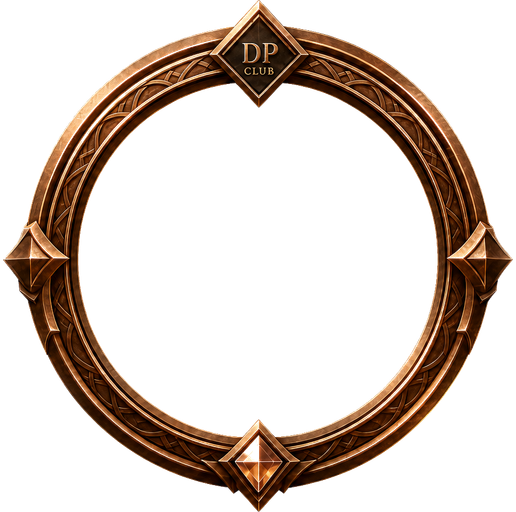
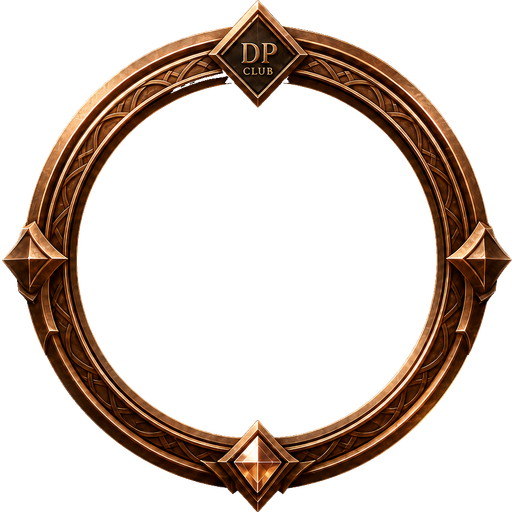
Fix cosmetic transparency: use game PNG URLs and reprocess assets.
Point chip/frame/title imageUrl to transparent *_game.png cutouts instead of opaque catalog stills. Improve alpha pipeline (post-trim mask for chips, dark flood for titles) and enlarge profile/table cosmetic previews.

diff --git a/packages/ui-kit/src/components/SkinSelector.tsx b/packages/ui-kit/src/components/SkinSelector.tsx
@@ -33,7 +33,10 @@ const defaultSlotTabs: { id: CosmeticSlot; label: string }[] = [
 ];
 
 const previewStage =
-  'relative flex h-[7.25rem] w-full items-center justify-center overflow-hidden rounded-xl border border-white/[0.06] bg-gradient-to-b from-[#0c141c] to-[#030508]';
+  'relative flex h-[7.5rem] w-full items-center justify-center overflow-visible rounded-xl border border-white/[0.06] bg-gradient-to-b from-[#0c141c] to-[#030508]';
+
+const cosmeticImg =
+  'relative z-[1] object-contain object-center [background:transparent] [image-rendering:auto]';
 
 const feltSpotlight =
   'pointer-events-none absolute inset-0 bg-[radial-gradient(circle_at_50%_42%,rgba(13,61,40,0.45)_0%,rgba(3,5,8,0.15)_52%,transparent_72%)]';
@@ -48,7 +51,7 @@ function CosmeticPreview({ slot, itemId, imageUrl }: { slot: CosmeticSlot; itemI
         <img
           src={src}
           alt=""
-          className="relative z-[1] h-[6.5rem] w-auto max-w-[88%] object-contain drop-shadow-[0_8px_20px_rgba(0,0,0,0.55)]"
+          className={`${cosmeticImg} h-[6.5rem] w-auto max-w-[88%] drop-shadow-[0_8px_20px_rgba(0,0,0,0.55)]`}
           loading="lazy"
           decoding="async"
         />
@@ -63,7 +66,7 @@ function CosmeticPreview({ slot, itemId, imageUrl }: { slot: CosmeticSlot; itemI
         <img
           src={src}
           alt=""
-          className="relative z-[1] h-[5.5rem] w-[5.5rem] object-contain object-center drop-shadow-[0_8px_18px_rgba(0,0,0,0.6)]"
+          className={`${cosmeticImg} h-[6.25rem] w-[6.25rem] max-w-[92%] drop-shadow-[0_8px_18px_rgba(0,0,0,0.6)]`}
           loading="lazy"
           decoding="async"
         />
@@ -83,7 +86,7 @@ function CosmeticPreview({ slot, itemId, imageUrl }: { slot: CosmeticSlot; itemI
           <img
             src={src}
             alt=""
-            className="relative z-[1] h-[5.5rem] w-[5.5rem] object-contain object-center drop-shadow-[0_0_14px_rgba(232,197,71,0.18)]"
+            className={`${cosmeticImg} h-[6rem] w-[6rem] max-w-[92%] drop-shadow-[0_0_14px_rgba(232,197,71,0.18)]`}
             loading="lazy"
             decoding="async"
           />
@@ -99,7 +102,7 @@ function CosmeticPreview({ slot, itemId, imageUrl }: { slot: CosmeticSlot; itemI
         <img
           src={src}
           alt=""
-          className="relative z-[1] max-h-[4.5rem] w-[94%] object-contain object-center drop-shadow-[0_4px_14px_rgba(0,0,0,0.65)]"
+          className={`${cosmeticImg} max-h-[4.75rem] w-[96%] drop-shadow-[0_4px_14px_rgba(0,0,0,0.65)]`}
           loading="lazy"
           decoding="async"
         />

diff --git a/apps/web/src/components/cosmetics/PokerChipVisual.tsx b/apps/web/src/components/cosmetics/PokerChipVisual.tsx
@@ -14,14 +14,14 @@ export function PokerChipVisual({
   size?: 'sm' | 'md' | 'lg';
 }) {
   const resolvedChipId = gameChipId(chipId);
-  const dim = size === 'sm' ? 'h-8 w-8' : size === 'lg' ? 'h-14 w-14' : 'h-10 w-10';
+  const dim = size === 'sm' ? 'h-9 w-9' : size === 'lg' ? 'h-16 w-16' : 'h-11 w-11';
   return (
     <div className={cn('relative inline-flex flex-col items-center', className)}>
-      <div className={cn('relative', dim)}>
+      <div className={cn('relative flex items-center justify-center', dim)}>
         <img
           src={chipImageUrl(resolvedChipId)}
           alt=""
-          className="h-full w-full object-contain drop-shadow-[0_4px_10px_rgba(0,0,0,0.55)]"
+          className="h-full w-full max-h-full max-w-full object-contain object-center [background:transparent] drop-shadow-[0_4px_10px_rgba(0,0,0,0.55)]"
           draggable={false}
         />
       </div>
@@ -44,13 +44,13 @@ export function PokerChipStack({
   const resolvedChipId = gameChipId(chipId);
   const chips = Math.min(count, 5);
   return (
-    <div className={cn('relative h-10 w-10', className)}>
+    <div className={cn('relative h-11 w-11', className)}>
       {Array.from({ length: chips }, (_, i) => (
         <img
           key={i}
           src={chipImageUrl(resolvedChipId)}
           alt=""
-          className="absolute left-0 h-8 w-8 object-contain drop-shadow-md"
+          className="absolute left-1/2 h-9 w-9 -translate-x-1/2 object-contain object-center [background:transparent] drop-shadow-md"
           style={{ top: `${i * -3}px`, zIndex: i }}
           draggable={false}
         />

diff --git a/packages/shared-types/src/cosmetics.ts b/packages/shared-types/src/cosmetics.ts
@@ -209,7 +209,7 @@ const tierCosmetics = (tier: (typeof paidTiers)[number]): CosmeticDefinition[] =
       name: chip.name,
       slot: 'chip',
       requiredTier: tier,
-      imageUrl: asset(`chips/chip_${t}.png`),
+      imageUrl: asset(`chips/chip_${t}_game.png`),
       gameImageUrl: asset(`chips/chip_${t}_game.png`),
       rarity: chip.rarity,
       description: chip.description
@@ -219,7 +219,7 @@ const tierCosmetics = (tier: (typeof paidTiers)[number]): CosmeticDefinition[] =
       name: frame.name,
       slot: 'frame',
       requiredTier: tier,
-      imageUrl: asset(`frames/frame_${t}.png`),
+      imageUrl: asset(`frames/frame_${t}_game.png`),
       gameImageUrl: asset(`frames/frame_${t}_game.png`),
       rarity: frame.rarity,
       description: frame.description
@@ -229,7 +229,7 @@ const tierCosmetics = (tier: (typeof paidTiers)[number]): CosmeticDefinition[] =
       name: title.name,
       slot: 'title',
       requiredTier: tier,
-      imageUrl: asset(`titles/title_${t}.png`),
+      imageUrl: asset(`titles/title_${t}_game.png`),
       gameImageUrl: asset(`titles/title_${t}_game.png`),
       rarity: title.rarity,
       description: title.description
@@ -254,7 +254,7 @@ export const subscriptionCosmetics: CosmeticDefinition[] = [
     name: 'DP CLUB House',
     slot: 'chip',
     requiredTier: 'FREE',
-    imageUrl: asset('chips/chip_classic.png'),
+    imageUrl: asset('chips/chip_classic_game.png'),
     gameImageUrl: asset('chips/chip_classic_game.png'),
     rarity: 'COMMON',
     description: 'Official DP CLUB house chips — emerald edge stripes.'

diff --git a/apps/web/src/components/subscriptions/SubscriptionPerksMatrix.tsx b/apps/web/src/components/subscriptions/SubscriptionPerksMatrix.tsx
@@ -93,10 +93,10 @@ export function SubscriptionPerksMatrix({
                             title={item.name}
                             className={
                               item.slot === 'deck'
-                                ? 'h-14 w-10 object-contain'
+                                ? 'h-14 w-10 object-contain [background:transparent]'
                                 : item.slot === 'title'
-                                  ? 'h-6 w-28 object-contain'
-                                  : 'h-11 w-11 object-contain'
+                                  ? 'max-h-7 w-auto max-w-[7.5rem] object-contain [background:transparent]'
+                                  : 'h-12 w-12 object-contain object-center [background:transparent]'
                             }
                           />
                         </div>

diff --git a/apps/web/src/components/cosmetics/PlayerAvatar.tsx b/apps/web/src/components/cosmetics/PlayerAvatar.tsx
@@ -72,7 +72,7 @@ export function PlayerAvatar({
           <img
             src={frameImageUrl(frameId)}
             alt=""
-            className="pointer-events-none absolute inset-0 z-[2] h-full w-full scale-[1.08] object-contain drop-shadow-[0_0_12px_rgba(232,197,71,0.25)]"
+            className="pointer-events-none absolute inset-0 z-[2] h-full w-full scale-[1.12] object-contain object-center [background:transparent] drop-shadow-[0_0_12px_rgba(232,197,71,0.25)]"
             draggable={false}
           />
         ) : (
